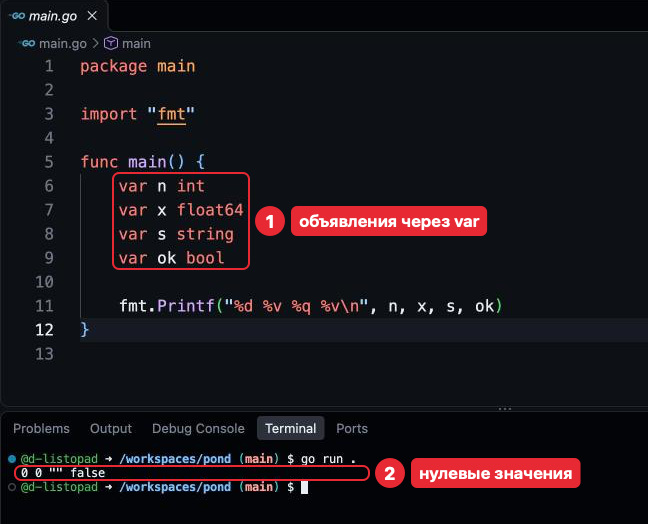
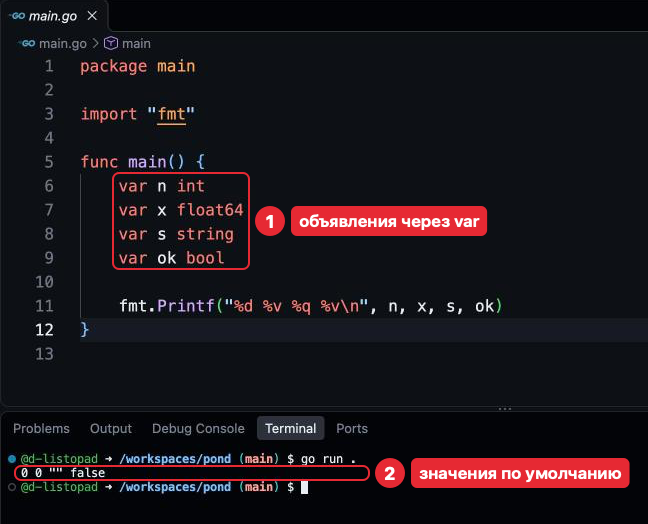
Zero value — «значение по умолчанию» вместо «нулевого значения»: урок и задачи шага 3, словарь, подпись кадра

Changed region(s): [[0.6481, 0.855, 0.9877, 0.9466]]

diff --git a/Lessons/03-variables/lesson.md b/Lessons/03-variables/lesson.md
@@ -107,27 +107,27 @@ count = "три" // ошибка: count хранит int
 Глагол должен подходить к типу значения, иначе вместо значения программа напечатает
 пометку об ошибке.
 
-### *var* и нулевое значение
+### *var* и значение по умолчанию
 
 Через *:=* переменная получает значение сразу. Бывает, что значения ещё нет — тогда
-её объявляют *var имя тип*. В ней сразу лежит **нулевое значение** (zero value)
-её типа, а не пустота:
+её объявляют *var имя тип*. В ней сразу лежит **значение по умолчанию**
+её типа (в документации Go — zero value), а не пустота:
 
-| Тип | Нулевое значение |
+| Тип | Значение по умолчанию |
 |---|---|
 | *int* | *0* |
 | *float64* | *0* |
 | *string* | *""* |
 | *bool* | *false* |
 
-![Четыре переменные через var и их нулевые значения](images/03-var.png)
+![Четыре переменные через var и их значения по умолчанию](images/03-var.png)
 
 *На кадре — пример урока, не твой файл.*
 
 Когда какой способ объявления выбрать:
 
 - *:=* — значение известно сразу. Основной способ.
-- *var x тип* — переменная начинает с нулевого значения.
+- *var x тип* — переменная начинает со значения по умолчанию.
 - *var x тип = значение* — нужен другой тип, чем определил бы компилятор:
   *var price float64 = 3*.
 
@@ -135,7 +135,7 @@ count = "три" // ошибка: count хранит int
 
 Компилятор принимает любой из способов выше; программисты на Go договорились о стиле:
 
-- **Нулевое значение — готовое начало.** *var count int* вместо *count := 0*, если
+- **Значение по умолчанию — готовое начало.** *var count int* вместо *count := 0*, если
   счёт начинается с нуля.
 - **Имена в стиле MixedCaps** — слова слитно, следующее с заглавной: *maxSize*,
   не «max_size» и не «MAX_SIZE». Первая буква строчная: заглавную оставляют для имён,
@@ -192,7 +192,7 @@ count = "три" // ошибка: count хранит int
    <details>
    <summary>Ответ</summary>
 
-   «[] ""». Нулевое значение строки — пустая строка; *%q* делает её видимой.
+   «[] ""». Значение по умолчанию у строки — пустая строка; *%q* делает её видимой.
 
    </details>
 

diff --git a/Lessons/glossary.md b/Lessons/glossary.md
@@ -18,6 +18,7 @@
 | Вызов функции | function call | Выполнение функции по её имени: *fmt.Println("текст")* | 2 |
 | Глагол | verb | Метка в строке формата, начинается с *%*: *%d*, *%s*, *%q*, *%v* | 3 |
 | Декремент | decrement | Уменьшение переменной на единицу: *x--* | 4 |
+| Значение по умолчанию | zero value | Значение переменной, которой ничего не присвоили: *0*, *""*, *false* | 3 |
 | Импорт | import | Подключение пакета в файле строкой *import* | 2 |
 | Индекс | staging area | Изменения, отмеченные командой *git add* для следующего коммита | 2 |
 | Инкремент | increment | Увеличение переменной на единицу: *x++* | 4 |
@@ -28,7 +29,6 @@
 | Константа | constant | Имя для значения, которое задаётся один раз и не меняется: *const limit = 10* | 4 |
 | Корень проекта | project root | Самая верхняя папка проекта, в которой лежит всё остальное | 1 |
 | Модуль | module | Весь проект; его корень отмечает файл *go.mod* | 2 |
-| Нулевое значение | zero value | Значение переменной, которой ничего не присвоили: *0*, *""*, *false* | 3 |
 | Объявление | declaration | Создание имени в коде: функции «func main() {…}», переменной *x := 3* | 2 |
 | Оператор | operator | Значок, который вычисляет новое значение из других: *+*, *-*, «*», */*, *%* | 4 |
 | Ошибка | error | Значение, которое сообщает, что у функции не вышло; *nil* — ошибки нет. Не путать с ошибкой компилятора | 5 |

diff --git a/Lessons/03-variables/tasks/02-newborn.md b/Lessons/03-variables/tasks/02-newborn.md
@@ -19,7 +19,7 @@
 <details>
 <summary>Подсказка к задаче</summary>
 
-Раздел урока «*var* и нулевое значение»; глагол, который делает пустую строку заметной, —
+Раздел урока «*var* и значение по умолчанию»; глагол, который делает пустую строку заметной, —
 в таблице глаголов раздела «Вывод в терминал: *fmt.Printf*».
 
 </details>

diff --git a/Lessons/03-variables/tasks/01-introduce.md b/Lessons/03-variables/tasks/01-introduce.md
@@ -60,6 +60,6 @@
 <details>
 <summary>Подсказка</summary>
 
-Раздел урока «*var* и нулевое значение», список «Когда какой способ объявления выбрать».
+Раздел урока «*var* и значение по умолчанию», список «Когда какой способ объявления выбрать».
 
 </details>
